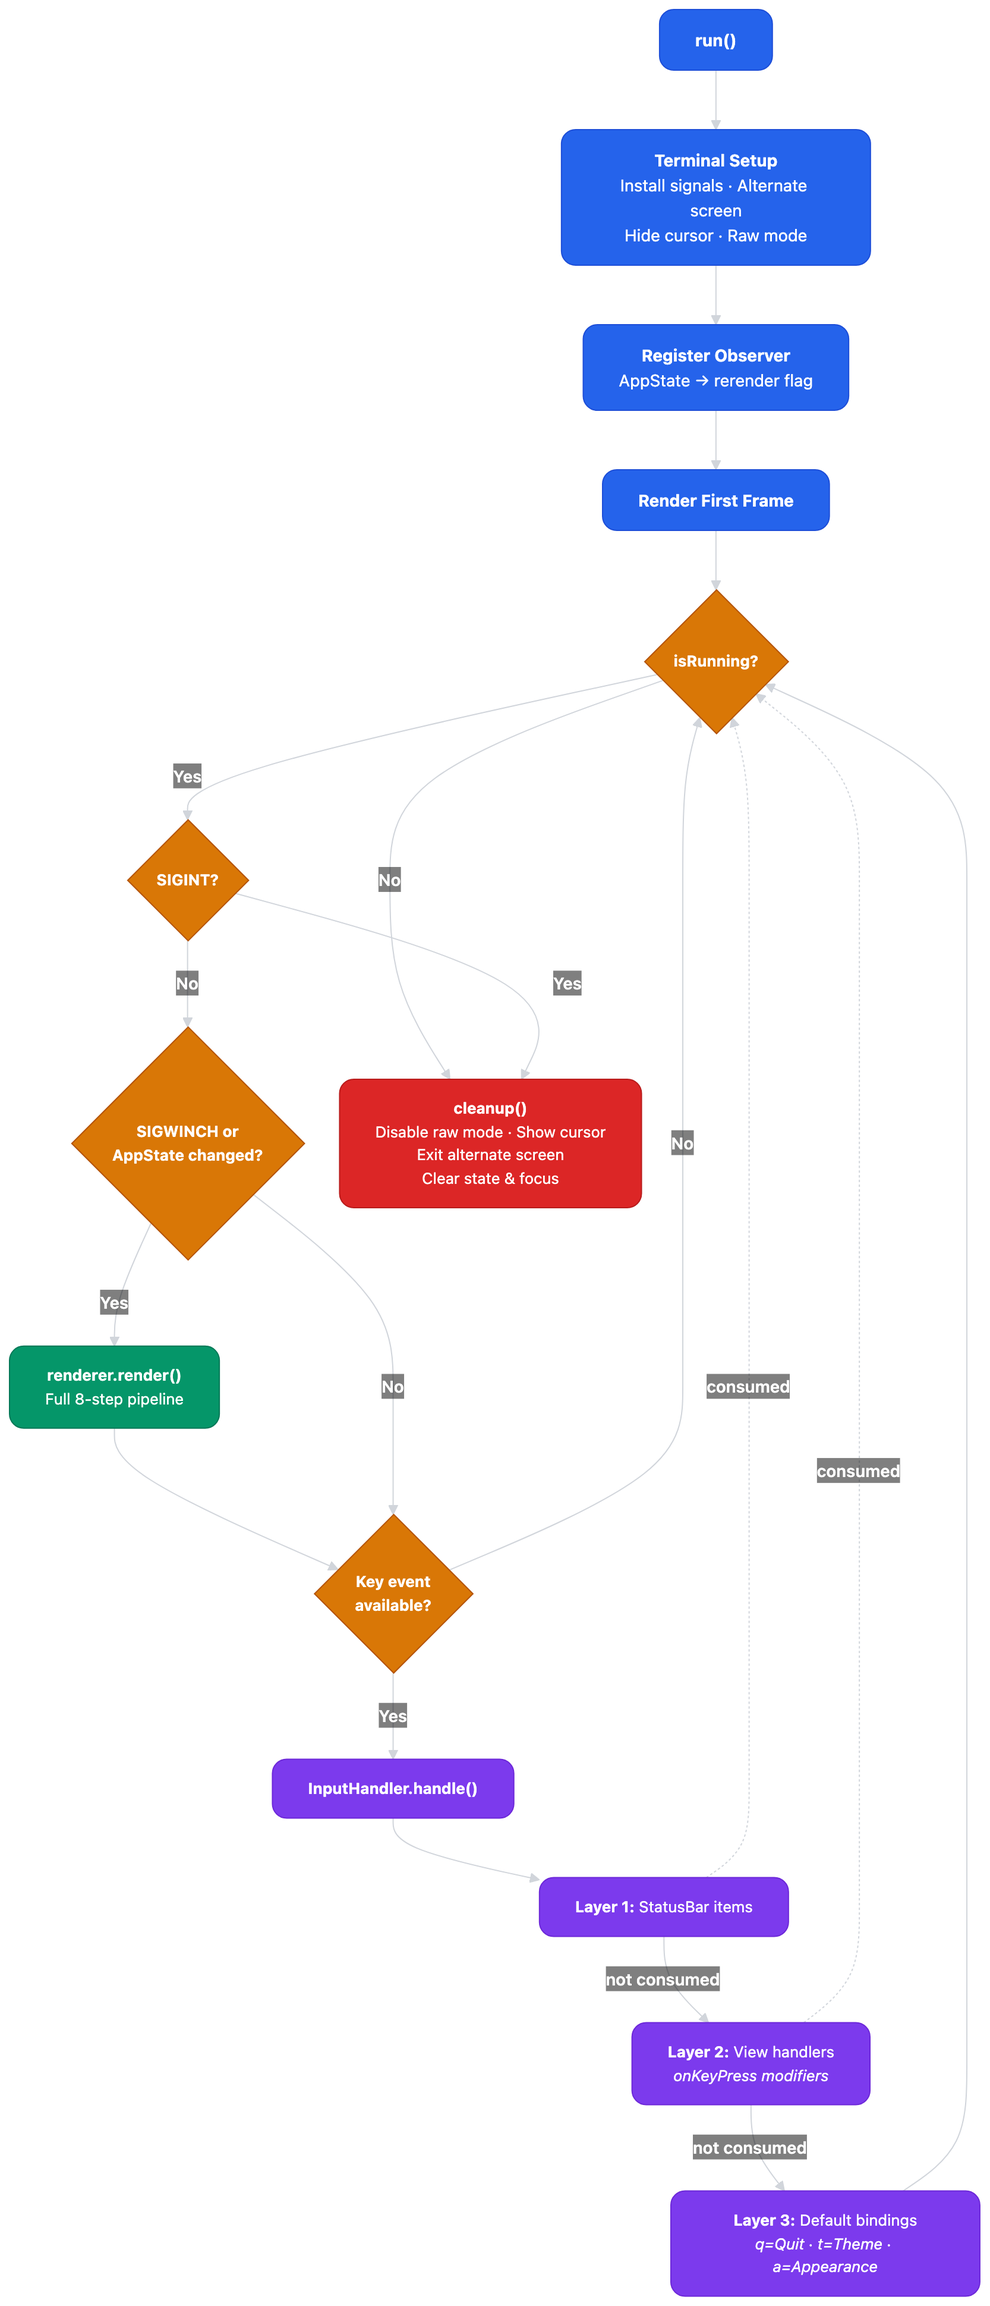
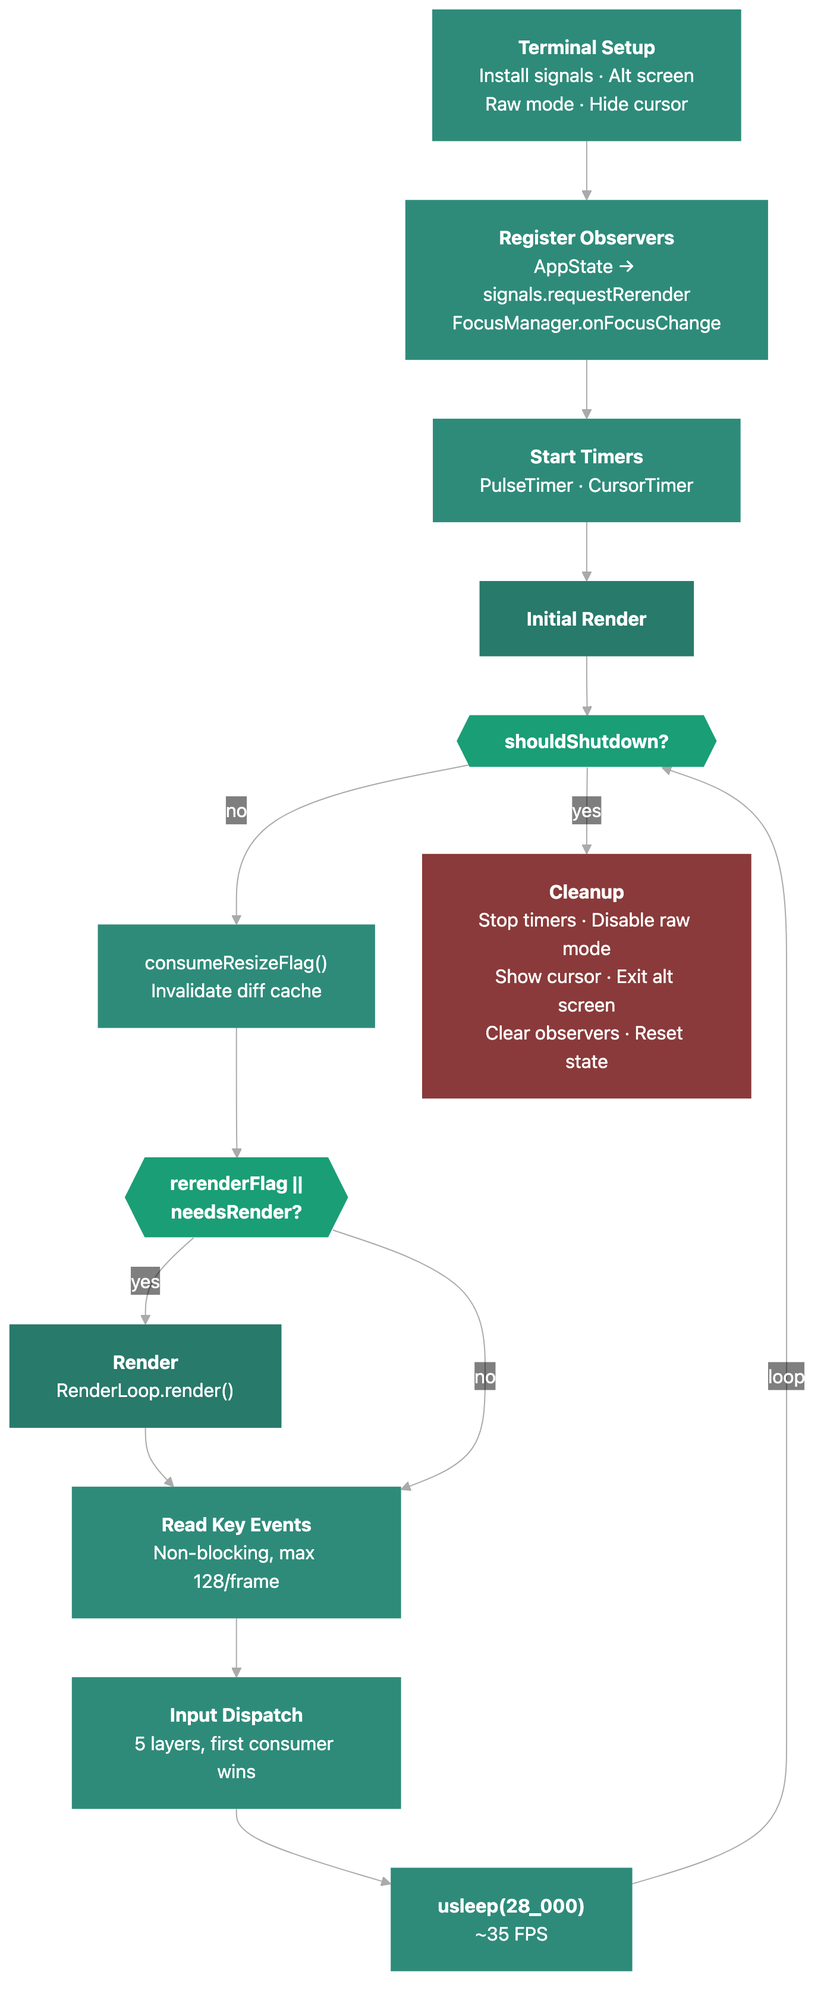
Docs: Audit and fix all DocC diagrams against actual code
- KeyboardShortcuts.md: 3 layers → 5 layers, fix FocusManager arrow key
  handling, recreate keyboard-event-dispatch diagram
- AppLifecycle.md: fix subsystem init (add AppState, AppHeaderState,
  separate init/run), fix terminal setup (add focus observer, timers),
  fix main loop (5 layers, re-render trigger table), rewrite key event
  dispatch (5 layers with Layer 0/3 mutual exclusivity), fix dependency
  graphs (complete subsystem list, correct layer references)
- RenderCycle.md: fix Step 1 (5 subsystems not 3), Step 2 (add
  RenderCache), Step 3 (complete environment code snippet), Step 9
  (add app header), Step 12 (add StateStorage GC, RenderCache cleanup),
  update trigger table (add timers, focus changes), recreate pipeline
  diagram with all 12 steps
- Recreated 7 diagrams as Mermaid renders (light + dark variants)

diff --git a/Sources/TUIkit/TUIkit.docc/Articles/AppLifecycle.md b/Sources/TUIkit/TUIkit.docc/Articles/AppLifecycle.md
@@ -33,9 +33,9 @@ The `@main` attribute tells Swift to call the static `main()` method provided by
 
 ## Subsystem Initialization
 
-The `AppRunner` creates and wires all subsystems in its initializer. Order matters because later subsystems reference earlier ones:
+`AppRunner.init()` creates and wires the core subsystems: Terminal, AppState, StatusBarState, AppHeaderState, FocusManager, TUIContext (containing LifecycleManager, KeyEventDispatcher, PreferenceStorage, StateStorage, and RenderCache), and two ThemeManagers (palette and appearance). `run()` then creates the remaining runtime components: InputHandler, RenderLoop, PulseTimer (100 ms), and CursorTimer (50 ms).
 
-@Image(source: "lifecycle-subsystem-init.png", alt: "Diagram showing subsystem initialization: @main calls App.main(), which creates the app instance, then AppRunner wires Terminal, StatusBarState, FocusManager, TUIContext (with LifecycleManager, KeyEventDispatcher, PreferenceStorage), two ThemeManagers, InputHandler, and RenderLoop.")
+@Image(source: "lifecycle-subsystem-init.png", alt: "Diagram showing subsystem initialization: @main calls App.main(), which creates the app instance via Self(), then AppRunner.init() creates Terminal, AppState, StatusBarState, AppHeaderState, FocusManager, TUIContext with 5 children (LifecycleManager, KeyEventDispatcher, PreferenceStorage, StateStorage, RenderCache), and two ThemeManagers. run() then creates InputHandler, RenderLoop, PulseTimer (100ms), and CursorTimer (50ms).")
 
 The `AppRunner` is the sole owner of all subsystems. Dependencies flow through constructor injection and ``RenderContext``.
 
@@ -49,8 +49,10 @@ Before the main loop starts, `run()` prepares the terminal:
 | 2 | Enter alternate screen | Preserve the user's existing terminal content |
 | 3 | Hide cursor | Avoid cursor flicker during rendering |
 | 4 | Enable raw mode | Disable line buffering, echo, and signal processing |
-| 5 | Register state observer | `AppState` changes trigger re-renders (registered via `RenderNotifier`) |
-| 6 | Render first frame | Show the initial UI immediately |
+| 5 | Register state observer | `AppState` changes trigger re-renders via `signals.requestRerender()` |
+| 6 | Register focus observer | Focus changes reset the pulse timer and trigger re-renders |
+| 7 | Start timers | PulseTimer (100 ms) and CursorTimer (50 ms) for animations |
+| 8 | Render first frame | Show the initial UI immediately |
 
 ### Raw Mode
 
@@ -67,17 +69,20 @@ The original terminal settings are saved and restored during cleanup.
 
 The main loop is synchronous and runs until shutdown:
 
-@Image(source: "lifecycle-main-loop.png", alt: "Flowchart of the main loop: run() performs terminal setup, renders first frame, then loops checking SIGINT for shutdown, SIGWINCH or AppState for re-render, reads key events, and dispatches through 3 layers. On SIGINT, cleanup() restores the terminal and exits.")
+@Image(source: "lifecycle-main-loop.png", alt: "Flowchart of the main loop: run() performs terminal setup, registers observers, starts timers, renders first frame, then loops checking shouldShutdown, consumeResizeFlag to invalidate diff cache, rerenderFlag or needsRender to conditionally render, reads key events non-blocking up to 128 per frame, dispatches through 5 layers, and sleeps 28ms. On shouldShutdown, cleanup restores the terminal and exits.")
 
 ### Re-render Triggers
 
-Three things cause a new frame to be rendered:
+Several sources cause a new frame to be rendered, all converging on two boolean checks in the main loop:
 
-- **SIGWINCH**: the terminal was resized
-- **`AppState`**: a `@State` property was mutated
-- **`SignalManager`**: `requestRerender()` was called (used by the state observer)
+| Trigger | Path | Main loop check |
+|---------|------|-----------------|
+| SIGWINCH | Sets `signalNeedsRerender` + `signalTerminalResized` | `consumeRerenderFlag()` |
+| @State mutation | `AppState` observer calls `signals.requestRerender()` | `consumeRerenderFlag()` |
+| PulseTimer / CursorTimer | Calls `appState.setNeedsRender()` | `appState.needsRender` |
+| Focus change | Calls `appState.setNeedsRender()` | `appState.needsRender` |
 
-All triggers set boolean flags that the main loop checks. The actual rendering always happens on the main thread.
+All triggers set boolean flags. The actual rendering always happens on the main thread: signal handlers never render directly.
 
 ## Signal Handling
 
@@ -92,7 +97,11 @@ Signal handlers only set `nonisolated(unsafe)` boolean flags: no allocations, no
 
 ## Key Event Dispatch
 
-When the terminal delivers a key event, the `InputHandler` dispatches it through three layers:
+When the terminal delivers a key event, the `InputHandler` dispatches it through five layers. Layer 0 and Layer 3 are mutually exclusive based on `focusManager.hasTextInputFocus`:
+
+### Layer 0: Text Input (conditional)
+
+When a text input element (TextField/SecureField) is focused, `focusManager.dispatchKeyEvent()` runs first. This ensures printable characters, backspace, delete, arrows, home, end, and enter reach the text field before any other layer. Only keys the text field does not consume (Escape, Tab, unhandled Ctrl+shortcuts) fall through.
 
 ### Layer 1: Status Bar Items
 
@@ -102,7 +111,11 @@ When the terminal delivers a key event, the `InputHandler` dispatches it through
 
 The `KeyEventDispatcher` iterates handlers registered via `onKeyPress()` modifiers: in reverse order (newest first). If a handler returns `true`, dispatch stops.
 
-### Layer 3: Default Bindings
+### Layer 3: Focus System (conditional)
+
+Skipped when text input has focus (Layer 0 already ran). Otherwise, `focusManager.dispatchKeyEvent()` first delegates to the focused element's `handleKeyEvent()`, then handles Tab/Shift+Tab for focus cycling, then arrow keys as section navigation fallback.
+
+### Layer 4: Default Bindings
 
 Built-in key bindings that apply when no handler consumed the event:
 
@@ -118,15 +131,15 @@ Each frame follows 12 steps inside `RenderLoop.render()`:
 
 | Step | What |
 |------|------|
-| 1 | Clear per-frame state (key handlers, preferences, focus) |
-| 2 | Begin lifecycle and state tracking |
+| 1 | Clear per-frame state (key handlers, preferences, focus, status bar, app header) |
+| 2 | Begin lifecycle, state, and cache tracking |
 | 3 | Build ``EnvironmentValues`` from subsystem state |
 | 4 | Create ``RenderContext`` with layout constraints |
 | 5 | Evaluate `app.body` → ``WindowGroup`` |
 | 6 | Render view tree → ``FrameBuffer`` |
 | 7 | Build terminal-ready output lines |
 | 8 | Begin buffered frame (`Terminal.beginFrame()`) |
-| 9 | Diff against previous frame, write only changed lines |
+| 9 | Render app header, diff and write only changed content lines |
 | 10 | Render status bar into same buffer |
 | 11 | Flush entire frame in one `write()` syscall (`Terminal.endFrame()`) |
 | 12 | End lifecycle tracking (fires `onDisappear` for removed views) |
@@ -156,10 +169,10 @@ The `Terminal` class also has a `deinit` safety net that disables raw mode if it
 
 AppRunner creates and owns every subsystem. TUIContext acts as a secondary container for lifecycle, key dispatch, and preference storage.
 
-@Image(source: "dep-graph-ownership.png", alt: "Ownership diagram showing AppRunner owning all subsystems: SignalManager, Terminal, StatusBarState, FocusManager, both ThemeManagers, InputHandler, RenderLoop, and TUIContext. TUIContext contains LifecycleManager, KeyEventDispatcher, and PreferenceStorage. SignalManager sends SIGINT and SIGWINCH flags back to AppRunner.")
+@Image(source: "dep-graph-ownership.png", alt: "Ownership diagram showing AppRunner owning all subsystems: SignalManager, Terminal, AppState, StatusBarState, AppHeaderState, FocusManager, both ThemeManagers, TUIContext, InputHandler, RenderLoop, PulseTimer, and CursorTimer. TUIContext contains LifecycleManager, KeyEventDispatcher, PreferenceStorage, StateStorage, and RenderCache. SignalManager sends SIGINT and SIGWINCH flags back to AppRunner.")
 
 ### Runtime References
 
 During each frame, RenderLoop and InputHandler reference shared subsystems to build the environment and dispatch key events.
 
-@Image(source: "dep-graph-references.png", alt: "Runtime reference diagram showing RenderLoop writing output to Terminal, injecting environment values from StatusBarState, FocusManager, and both ThemeManagers, calling begin/end pass on LifecycleManager, begin pass on PreferenceStorage, and clearing handlers on KeyEventDispatcher. InputHandler dispatches through Layer 1 StatusBarState, Layer 2 KeyEventDispatcher, and Layer 3 both ThemeManagers.")
+@Image(source: "dep-graph-references.png", alt: "Runtime reference diagram showing RenderLoop writing output to Terminal, injecting environment values from StatusBarState, AppHeaderState, FocusManager, and both ThemeManagers, calling begin/end pass on LifecycleManager, StateStorage, and RenderCache, begin pass on PreferenceStorage, and clearing handlers on KeyEventDispatcher. InputHandler dispatches through Layer 0+3 FocusManager, Layer 1 StatusBarState, Layer 2 KeyEventDispatcher, and Layer 4 both ThemeManagers.")

diff --git a/Sources/TUIkit/TUIkit.docc/Articles/RenderCycle.md b/Sources/TUIkit/TUIkit.docc/Articles/RenderCycle.md
@@ -8,13 +8,14 @@ Every frame in TUIkit follows the same synchronous pipeline: **clear per-frame s
 
 ## What Triggers a Frame
 
-Three things cause `RenderLoop` to produce a new frame:
+Several sources cause `RenderLoop` to produce a new frame. They converge on two boolean checks in the main loop (`consumeRerenderFlag()` and `appState.needsRender`):
 
 | Trigger | Source | Mechanism |
 |---------|--------|-----------|
-| Terminal resize | `SIGWINCH` signal | `SignalManager` sets a boolean flag |
-| State mutation | `@State` property change | `AppState` notifies its observer via `RenderNotifier`, which sets the rerender flag |
-| Programmatic | `appState.setNeedsRender()` | Same observer path as above (services receive `AppState` via constructor injection) |
+| Terminal resize | `SIGWINCH` signal | `SignalManager` sets `signalNeedsRerender` and `signalTerminalResized` |
+| State mutation | `@State` property change | `AppState` observer calls `signals.requestRerender()` |
+| Animation timers | PulseTimer (100 ms) / CursorTimer (50 ms) | Calls `appState.setNeedsRender()` |
+| Focus change | `FocusManager.onFocusChange` | Resets pulse timer and calls `appState.setNeedsRender()` |
 
 All triggers converge on boolean flags that the main loop checks each iteration. The actual rendering always happens on the main thread: signal handlers never render directly.
 
@@ -22,21 +23,25 @@ All triggers converge on boolean flags that the main loop checks each iteration.
 
 Each call to `RenderLoop.render()` executes these steps in order:
 
-@Image(source: "render-cycle-pipeline.png", alt: "Diagram showing the 12-step render pipeline: clear per-frame state, begin lifecycle tracking, build environment, create render context, evaluate scene, render view tree, build output lines, begin buffered frame, diff and write changed lines, render status bar into same buffer, flush frame, end lifecycle tracking.")
+@Image(source: "render-cycle-pipeline.png", alt: "Diagram showing the 12-step render pipeline: Step 1 clear per-frame state (key handlers, preferences, focus, status bar, app header), Step 2 begin lifecycle/state/cache tracking, Step 3 build environment with all subsystem values and services, Step 4 create render context, Step 5 evaluate scene, Step 6 render view tree, Step 7 build output lines, Step 8 begin buffered frame, Step 9 render app header and diff content, Step 10 render status bar, Step 11 flush frame, Step 12 end tracking (lifecycle onDisappear, state GC, cache cleanup).")
 
 ### Step 1: Clear Per-Frame State
 
-Three subsystems are reset at the start of every frame:
+Five subsystems are reset at the start of every frame:
 
 - **`KeyEventDispatcher`**: All key handlers are removed. Views re-register them during rendering via `onKeyPress()` modifiers.
 - **`PreferenceStorage`**: All preference callbacks are cleared and the stack is reset to a single empty `PreferenceValues`.
 - **`FocusManager`**: All focus registrations are cleared. Focusable views re-register during rendering.
+- **`StatusBarState`**: Section items are cleared. Views re-register them via `.statusBarItems()` modifiers.
+- **`AppHeaderState`**: Header content is cleared. The `.appHeader()` modifier repopulates it during rendering.
+
+Additionally, the `StatusBarState` receives a reference to the current `FocusManager` for section resolution.
 
 This ensures that views which disappeared between frames don't leave stale handlers or registrations behind.
 
 ### Step 2: Begin Lifecycle and State Tracking
 
-The `LifecycleManager` prepares for a new frame by clearing its `currentRenderTokens` set. The `StateStorage` clears its active identity set. As views render, they add their tokens/identities to these sets. After rendering, the managers compare current and previous frames to detect which views appeared, disappeared, or had their state removed.
+The `LifecycleManager` prepares for a new frame by clearing its `currentRenderTokens` set. The `StateStorage` clears its active identity set. The `RenderCache` begins a new render pass for cache hit/miss tracking. As views render, they add their tokens/identities to these sets. After rendering, the managers compare current and previous frames to detect which views appeared, disappeared, or had their state removed.
 
 ### Step 3: Build Environment
 
@@ -45,15 +50,23 @@ A fresh ``EnvironmentValues`` instance is assembled from the current subsystem s
 ```swift
 // Simplified from RenderLoop.buildEnvironment()
 var env = EnvironmentValues()
-env.statusBar       = statusBar
-env.focusManager    = focusManager
-env.paletteManager  = paletteManager
-env.palette         = paletteManager.current    // e.g. SystemPalette(.green)
-env.appearanceManager = appearanceManager
-env.appearance      = appearanceManager.current // e.g. BorderStyle.rounded
+env.statusBar           = statusBar
+env.appHeader           = appHeader
+env.focusManager        = focusManager
+env.paletteManager      = paletteManager
+env.palette             = paletteManager.currentPalette
+env.appearanceManager   = appearanceManager
+env.appearance          = appearanceManager.currentAppearance
+env.notificationService = NotificationService.current
+env.stateStorage        = tuiContext.stateStorage
+env.lifecycle           = tuiContext.lifecycle
+env.keyEventDispatcher  = tuiContext.keyEventDispatcher
+env.renderCache         = tuiContext.renderCache
+env.preferenceStorage   = tuiContext.preferences
+env.localizationService = LocalizationService.shared
 ```
 
-This environment is immutable for the duration of the frame.
+This environment is immutable for the duration of the frame. Runtime services (state storage, lifecycle, key dispatch, render cache, preferences) are injected here so that views and modifiers can access them through the environment rather than through `TUIContext` directly.
 
 ### Step 4: Create Render Context
 
@@ -96,13 +109,13 @@ The ``FrameBuffer`` is converted into terminal-ready output lines by `FrameDiffW
 
 `Terminal.beginFrame()` activates output buffering. From this point, all `Terminal.write()` calls append to an internal `[UInt8]` buffer instead of issuing syscalls.
 
-### Step 9: Diff and Write Changed Lines
+### Step 9: Render App Header and Diff Content
 
-`FrameDiffWriter.writeContentDiff()` compares the new output lines with the previous frame and writes **only changed lines** to the terminal buffer. For mostly-static UIs, this reduces writes by ~94%.
+If the app header has content (set by the `.appHeader()` modifier), it is rendered at the top of the terminal. Then `FrameDiffWriter.writeContentDiff()` compares the main content output lines with the previous frame and writes **only changed lines** to the terminal buffer. For mostly-static UIs, this reduces writes by ~94%.
 
 ### Step 10: Render Status Bar
 
-The status bar renders in a separate pass (see below) but writes into the **same frame buffer**, so content and status bar are flushed together.
+The status bar renders in a separate pass but writes into the **same frame buffer**, so app header, content, and status bar are flushed together.
 
 ### Step 11: Flush Frame
 
@@ -110,12 +123,11 @@ The status bar renders in a separate pass (see below) but writes into the **same
 
 ### Step 12: End Lifecycle and State Tracking
 
-The `LifecycleManager` compares the current frame's tokens with the previous frame's:
+Three managers finalize the frame:
 
-- **Disappeared views**: tokens present last frame but absent now. Their `onDisappear` callbacks fire, and their tokens are removed from the appeared set (allowing future `onAppear` if they return).
-- **Visible views**: the current token set becomes the baseline for the next frame.
-
-The `StateStorage` performs garbage collection: any state whose view identity was not marked active during this render pass is removed. This prevents memory leaks from views that have been permanently removed.
+- The **`LifecycleManager`** compares the current frame's tokens with the previous frame's. Disappeared views (tokens present last frame but absent now) fire their `onDisappear` callbacks; their tokens are removed from the appeared set, allowing future `onAppear` if they return.
+- The **`StateStorage`** performs garbage collection: any state whose view identity was not marked active during this render pass is removed. This prevents memory leaks from views that have been permanently removed.
+- The **`RenderCache`** removes inactive entries (subtrees no longer in the view tree) and optionally logs per-frame cache statistics.
 
 All state changes inside the lifecycle manager are `NSLock`-protected. Callbacks execute **outside** the lock to prevent deadlocks.
 

diff --git a/Sources/TUIkit/TUIkit.docc/Articles/KeyboardShortcuts.md b/Sources/TUIkit/TUIkit.docc/Articles/KeyboardShortcuts.md
@@ -4,9 +4,9 @@ How keyboard input flows through TUIkit: from raw terminal bytes to your view ha
 
 ## Overview
 
-TUIkit uses a layered event dispatch system. When a key is pressed, it passes through up to three layers. The first layer that consumes the event wins: remaining layers are skipped.
+TUIkit uses a layered event dispatch system. When a key is pressed, it passes through up to five layers. The first layer that consumes the event wins: remaining layers are skipped. Layer 0 (text input) and Layer 3 (focus system) are mutually exclusive: when a text input element is focused, Layer 0 runs and Layer 3 is skipped.
 
-@Image(source: "keyboard-event-dispatch.png", alt: "Flowchart showing keyboard event dispatch: Terminal raw bytes are parsed by KeyEvent.parse(), then dispatched through three layers. Layer 1: Status Bar Items (shortcuts with actions). If not consumed, Layer 2: View Handlers (.onKeyPress modifiers, deepest view first). If not consumed, Layer 3: Default Bindings (quit, theme, appearance).")
+@Image(source: "keyboard-event-dispatch.png", alt: "Flowchart showing keyboard event dispatch through five layers: a hasTextInputFocus check gates Layer 0 (Text Input via focusManager.dispatchKeyEvent for TextField/SecureField). Layer 1: Status Bar Items (shortcut-triggered actions). Layer 2: View Handlers (.onKeyPress modifiers, deepest view first). A second hasTextInputFocus check skips Layer 3 if text input was focused. Layer 3: Focus System (focused element delegation, Tab/Shift+Tab, arrow key fallback). Layer 4: Default Bindings (quit, theme, appearance). Unmatched events are dropped.")
 
 Additionally, `Ctrl+C` (SIGINT) is handled at the OS signal level **before** any of these layers: it always terminates the application.
 
@@ -135,22 +135,24 @@ VStack {
 
 ## Focus Navigation
 
-The `FocusManager` handles two navigation keys:
+The `FocusManager` dispatches key events in three steps:
+
+1. **Focused element delegation**: the focused element's `handleKeyEvent(_:)` is called first. If it consumes the event, dispatch stops.
+2. **Tab / Shift+Tab**: cycles focus between elements (wraps around).
+3. **Arrow key fallback**: Up/Left move to the previous element in the section, Down/Right move to the next. This only triggers if the focused element did not consume the arrow key in step 1.
 
 | Key | Action |
 |-----|--------|
 | Tab | Move focus to the next focusable element (wraps around) |
 | Shift+Tab | Move focus to the previous focusable element (wraps around) |
-
-When an element is focused, all other key events are delegated to it first via `handleKeyEvent(_:)`. Only if the focused element doesn't consume the event does it propagate further.
-
-Arrow keys are **not** handled by `FocusManager` itself: individual views (like ``Menu`` and ``Button``) handle arrows in their own key event handlers.
+| Up / Left | Move to previous element in section (fallback) |
+| Down / Right | Move to next element in section (fallback) |
 
 For more details, see <doc:FocusSystem>.
 
 ## Default Bindings
 
-Layer 3 provides three built-in key bindings that work without any configuration:
+Layer 4 provides three built-in key bindings that work without any configuration:
 
 | Key | Action | Condition |
 |-----|--------|-----------|
